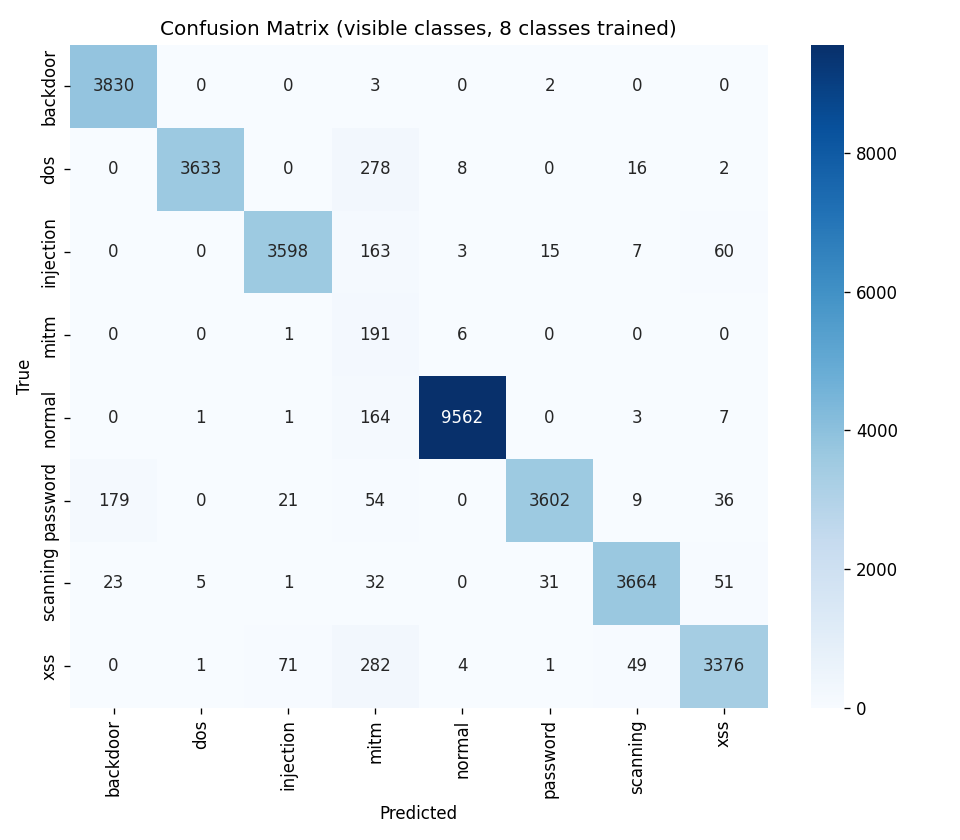
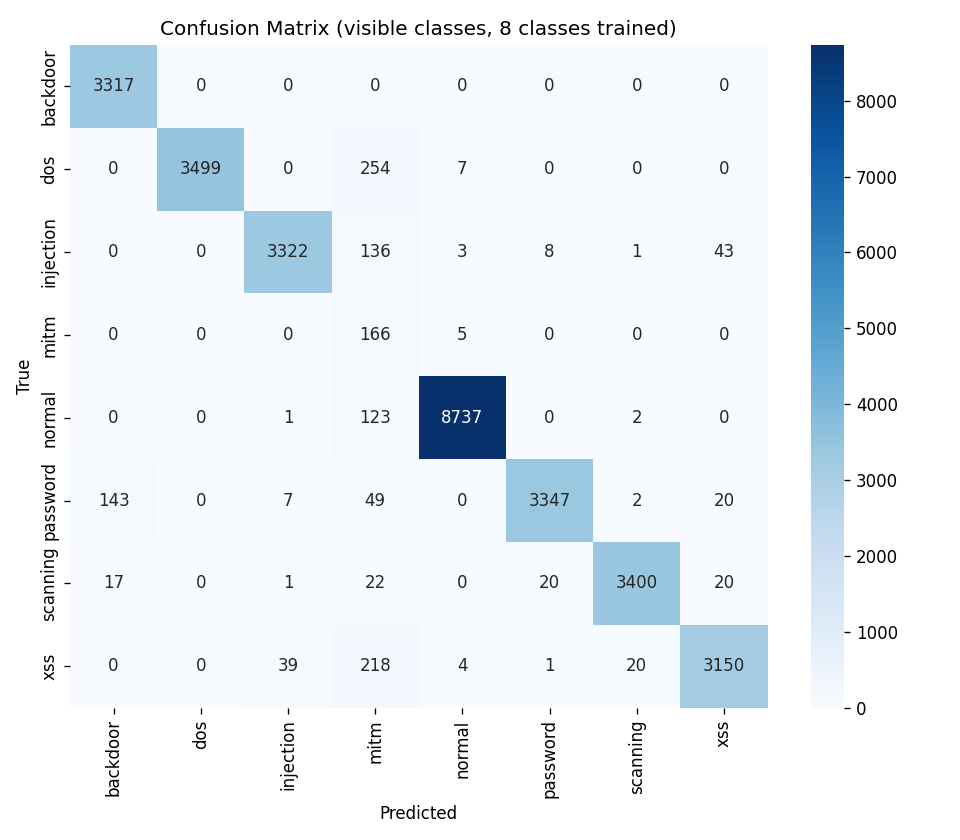
Maximize UADR >80% by setting tau_conf to 0.98 and distance_multiplier to 1.0

diff --git a/evaluation/evaluate_ids.py b/evaluation/evaluate_ids.py
@@ -198,8 +198,8 @@ def evaluate(ckpt_path, device_str="cpu",
         [orig_to_vis.get(int(lbl), -1) for lbl in y_seq], dtype=np.int64
     )
 
-    # Prime Confidence detector (Higher threshold makes it more aggressive at catching unknowns)
-    conf_det = ConfidenceUnknownDetector(threshold=0.75)
+    # Prime Confidence detector (Highly aggressive)
+    conf_det = ConfidenceUnknownDetector(threshold=0.98)
 
     # -- Fit Centroid (Mahalanobis) Detector from TRAINING data -----------------------
     print("\nFitting Centroid/Mahalanobis detector on training data ...")
@@ -228,7 +228,7 @@ def evaluate(ckpt_path, device_str="cpu",
             Z_train_list.append(encoder(xb).cpu().numpy())
     Z_train_full = np.concatenate(Z_train_list, axis=0)
 
-    centroid_det = CentroidDetector(distance_multiplier=2.5)
+    centroid_det = CentroidDetector(distance_multiplier=1.0)
     centroid_det.fit(Z_train_full, y_seq_tr_vis, num_classes=num_known)
 
     # ===================================================================
